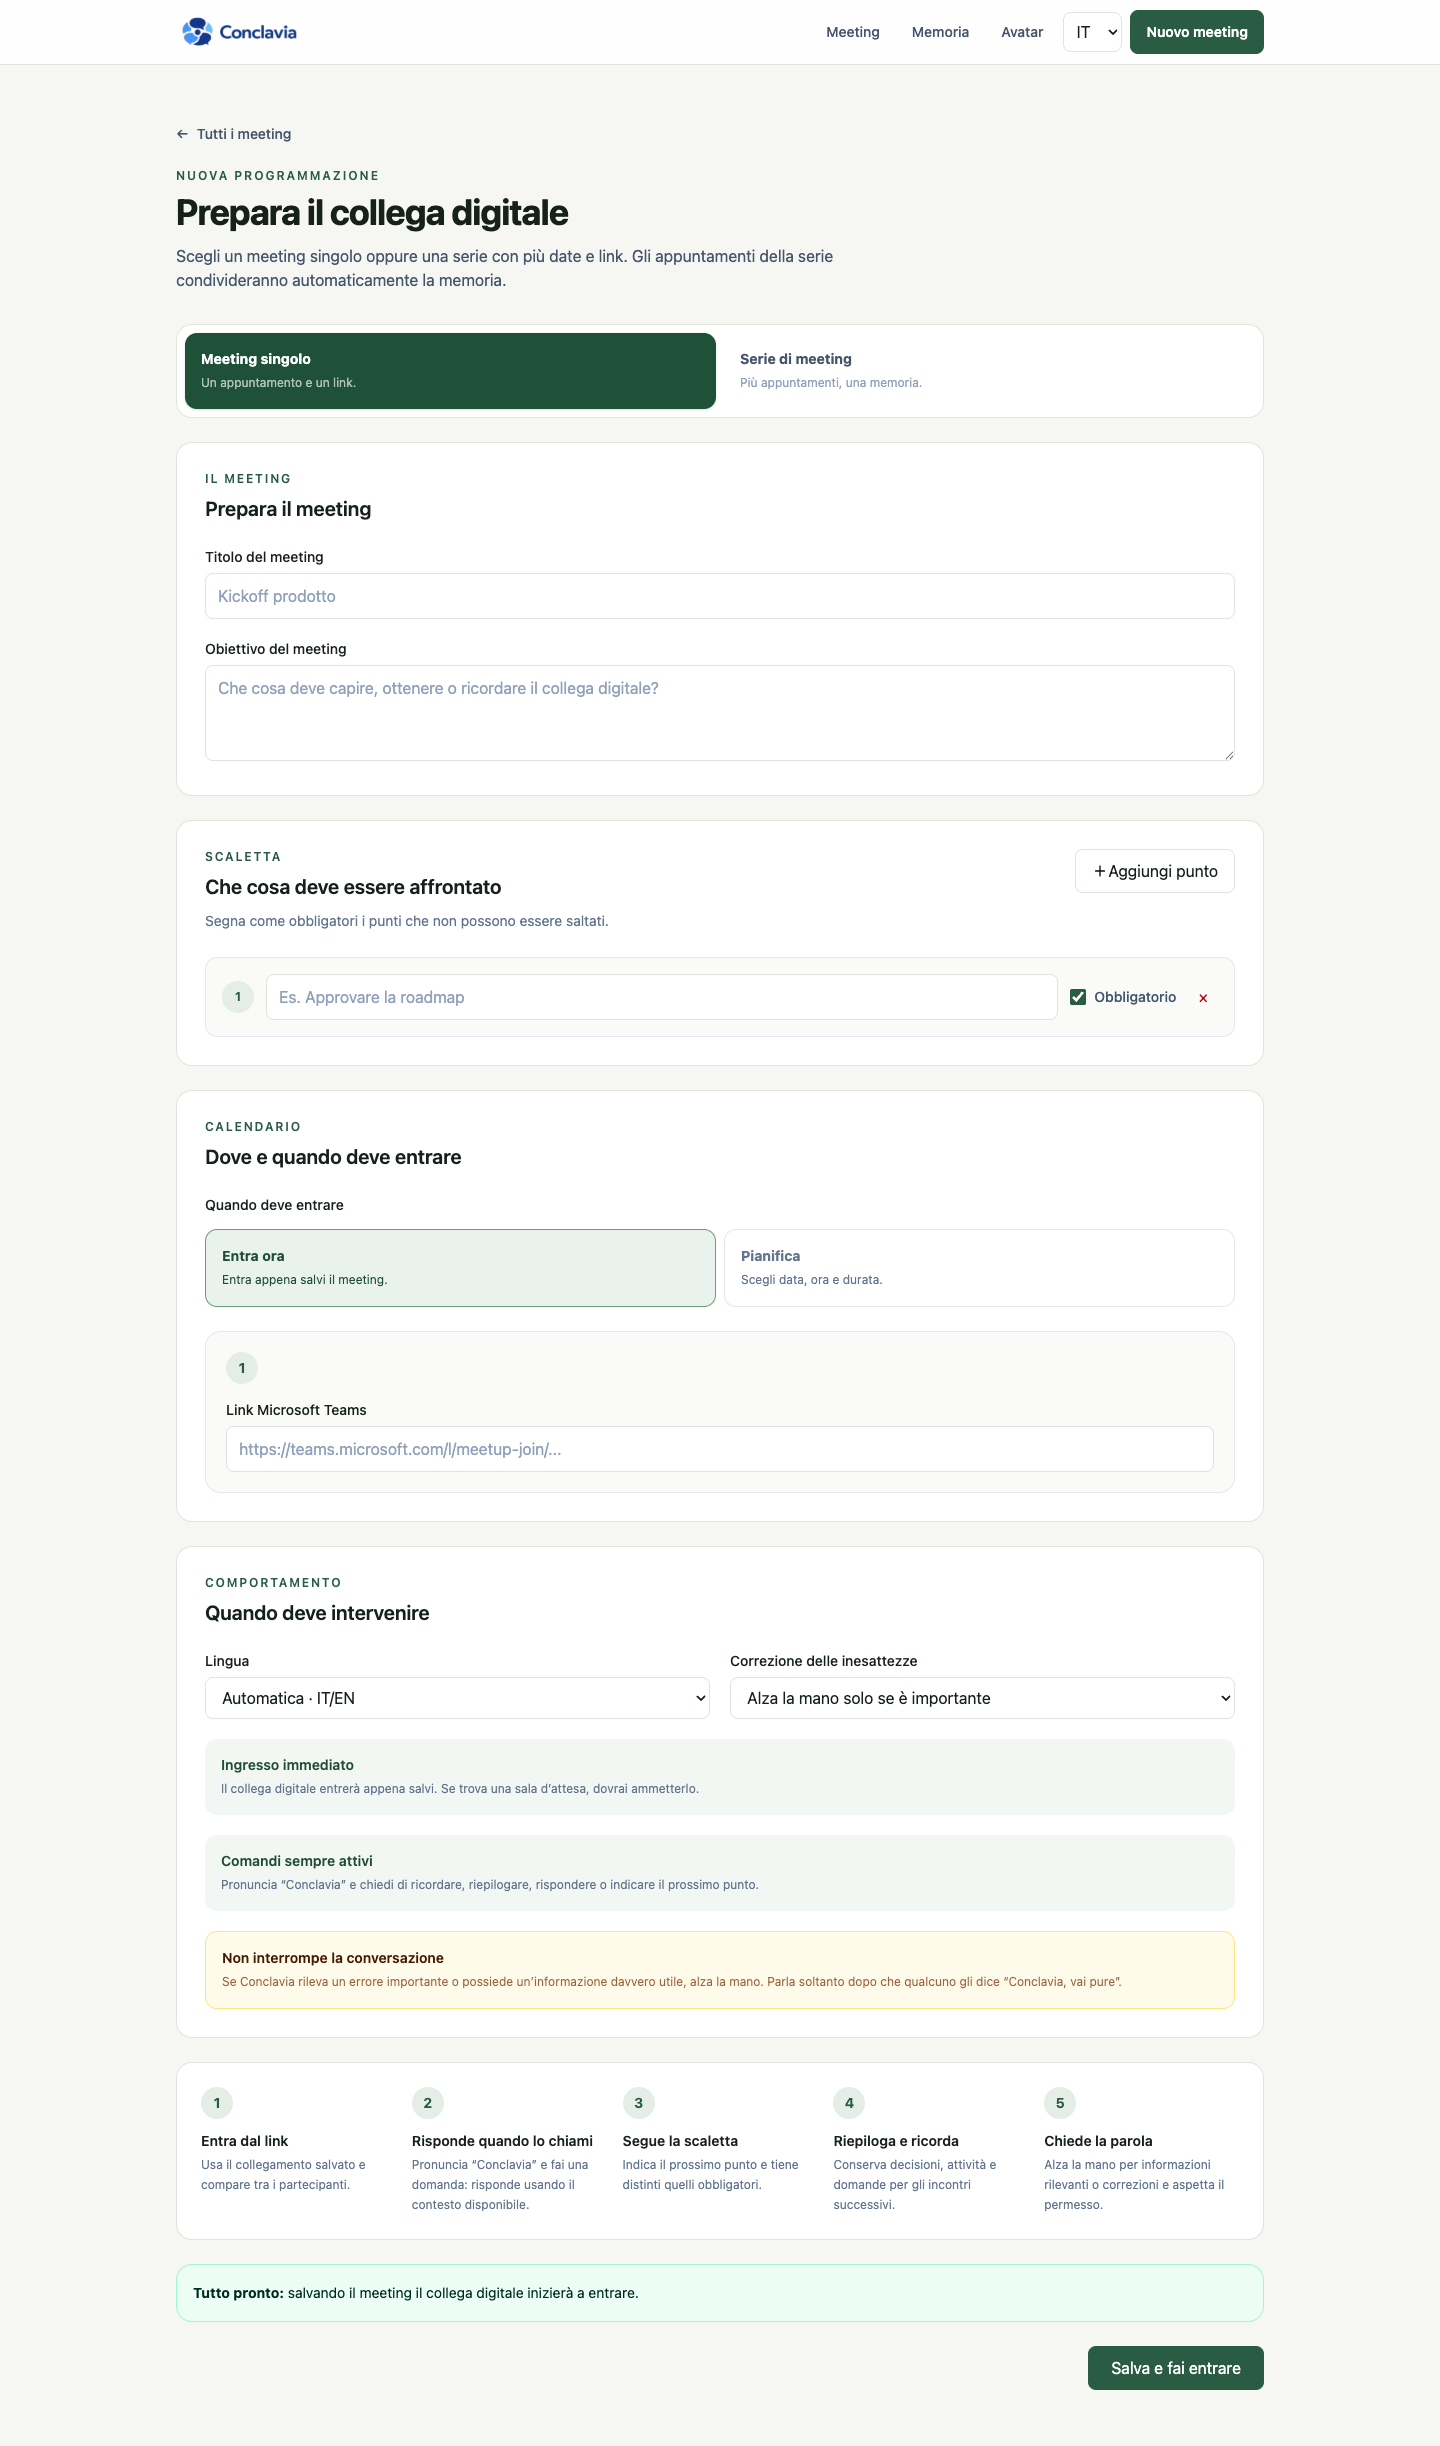
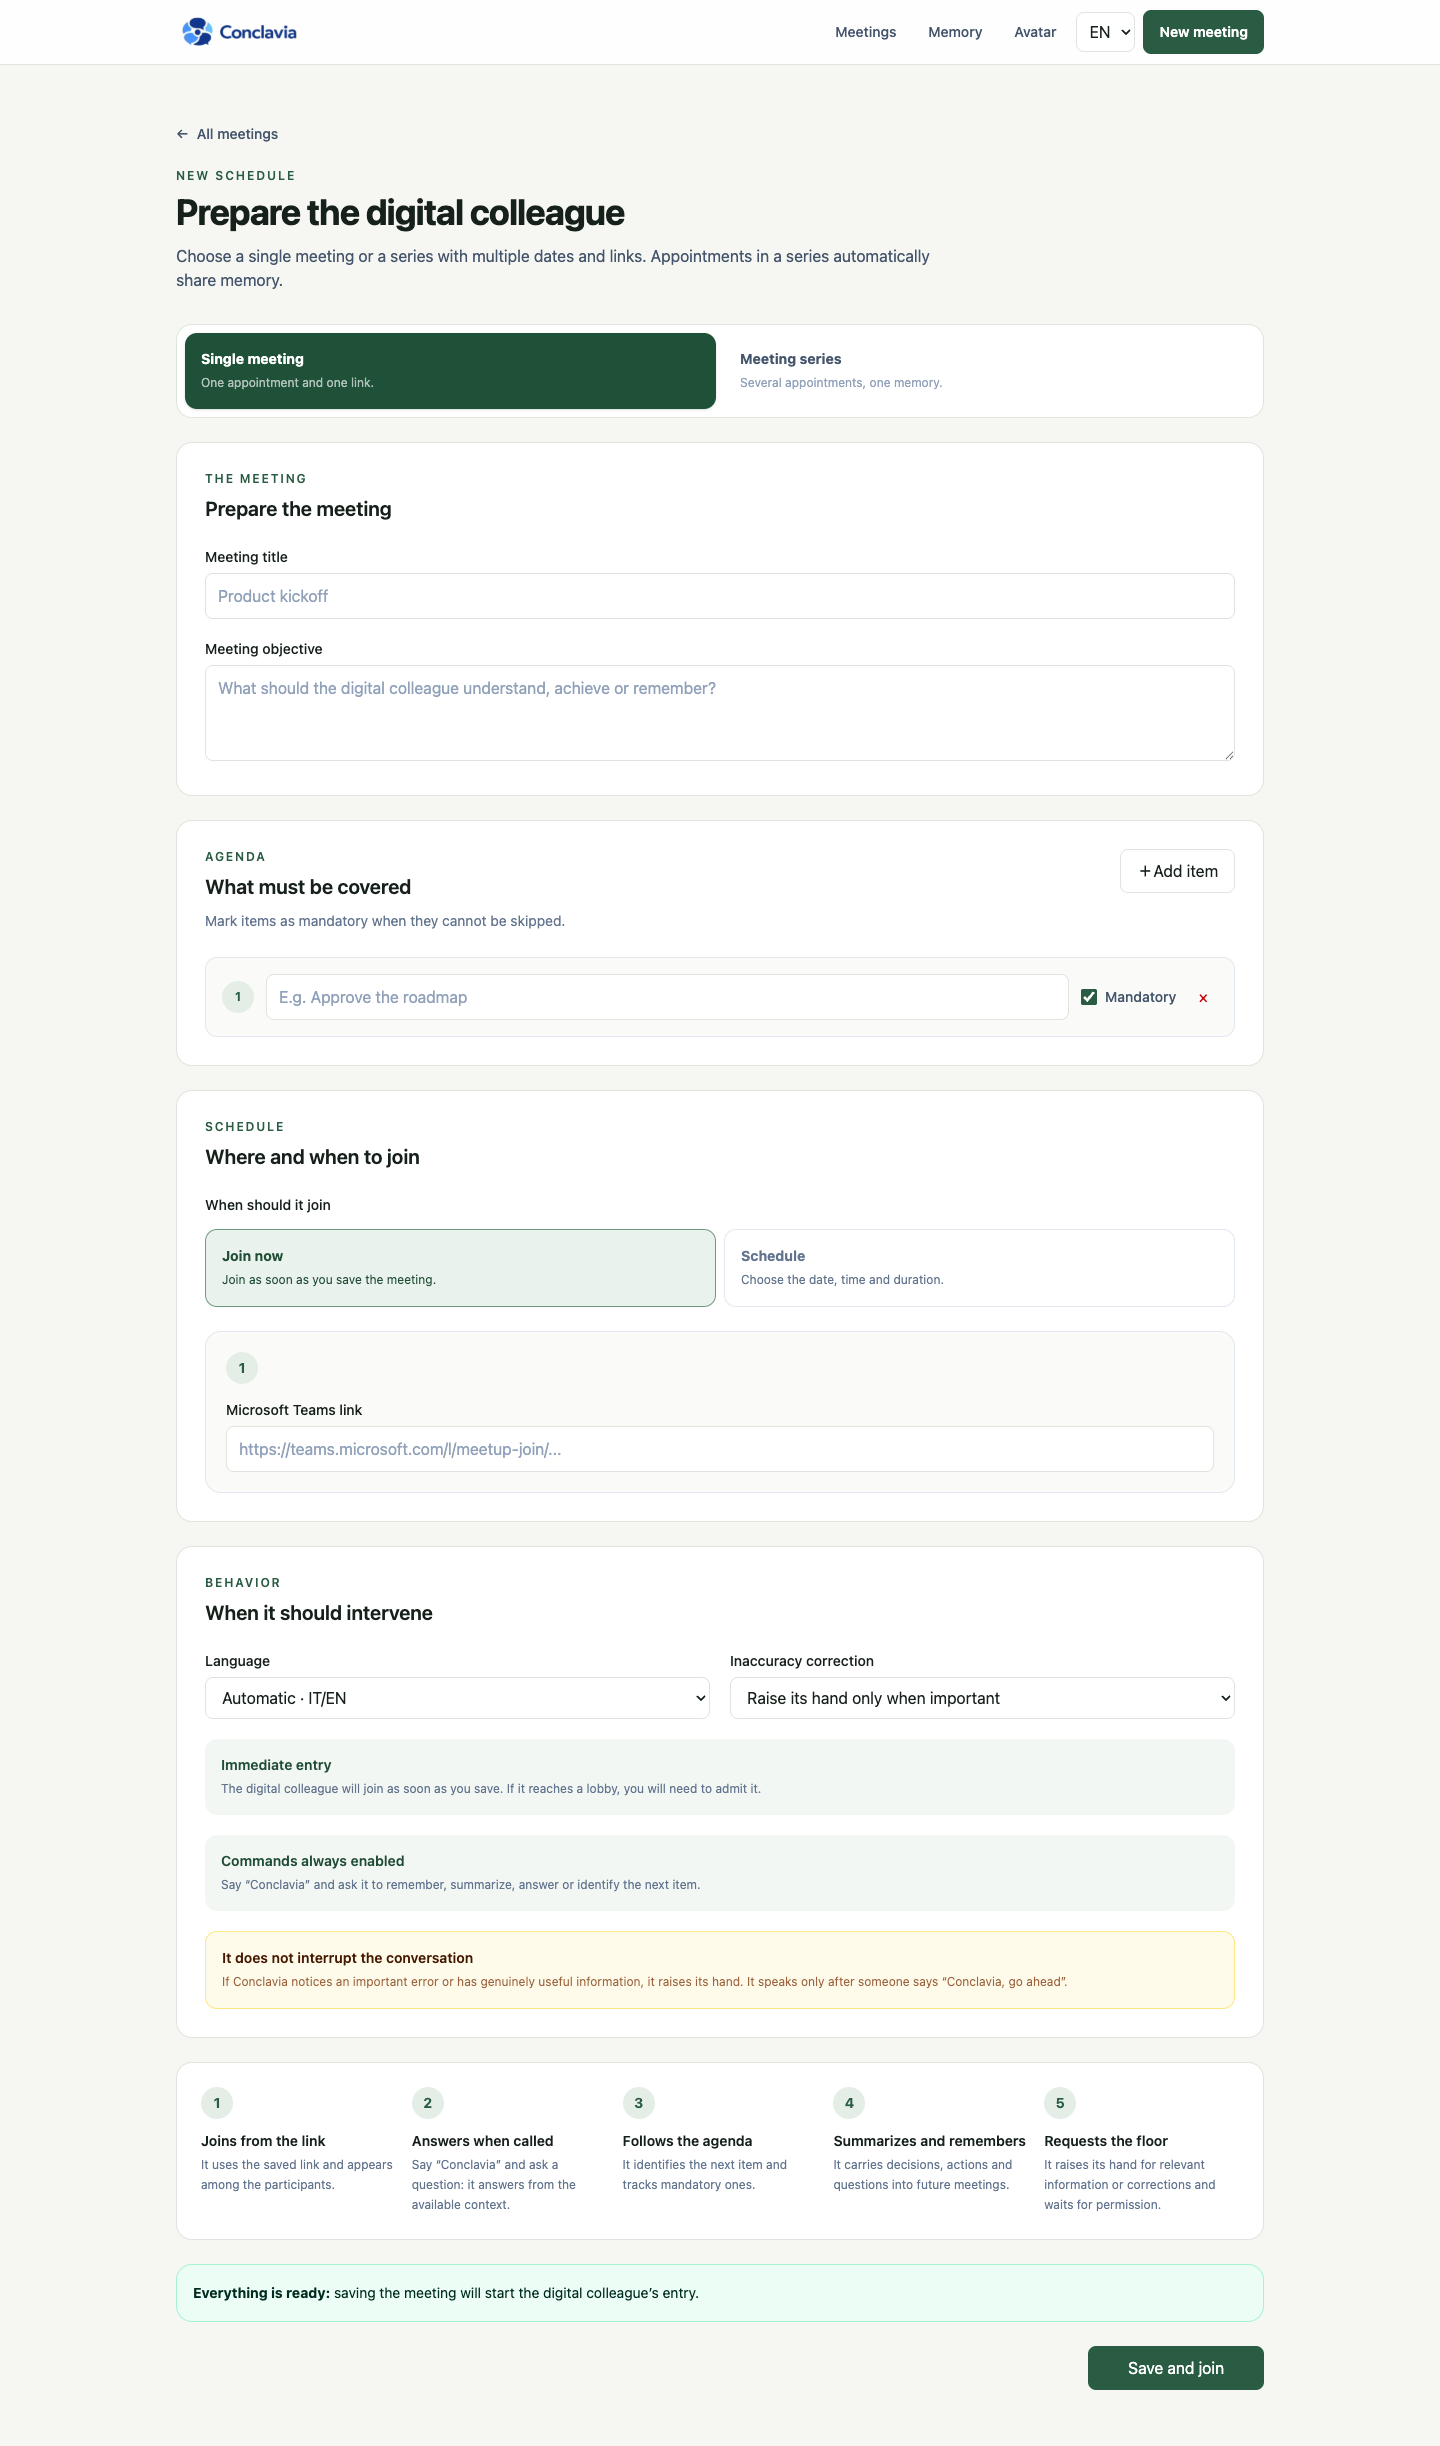
docs: capture product tour in English

diff --git a/src/components/AvatarTestStudio.tsx b/src/components/AvatarTestStudio.tsx
@@ -249,7 +249,7 @@ export function AvatarTestStudio({
                 aria-pressed={language === item}
                 className={`rounded-xl border px-3 py-2 text-xs font-semibold transition ${language === item ? "border-[#6e9a7d] bg-[#e9f2ec] text-[#204d36]" : "border-slate-200 text-slate-500 hover:bg-slate-50"}`}
               >
-                {item === "it" ? "Italiano" : "English"}
+                {item === "it" ? (isItalian ? "Italiano" : "Italian") : "English"}
               </button>
             ))}
           </div>
